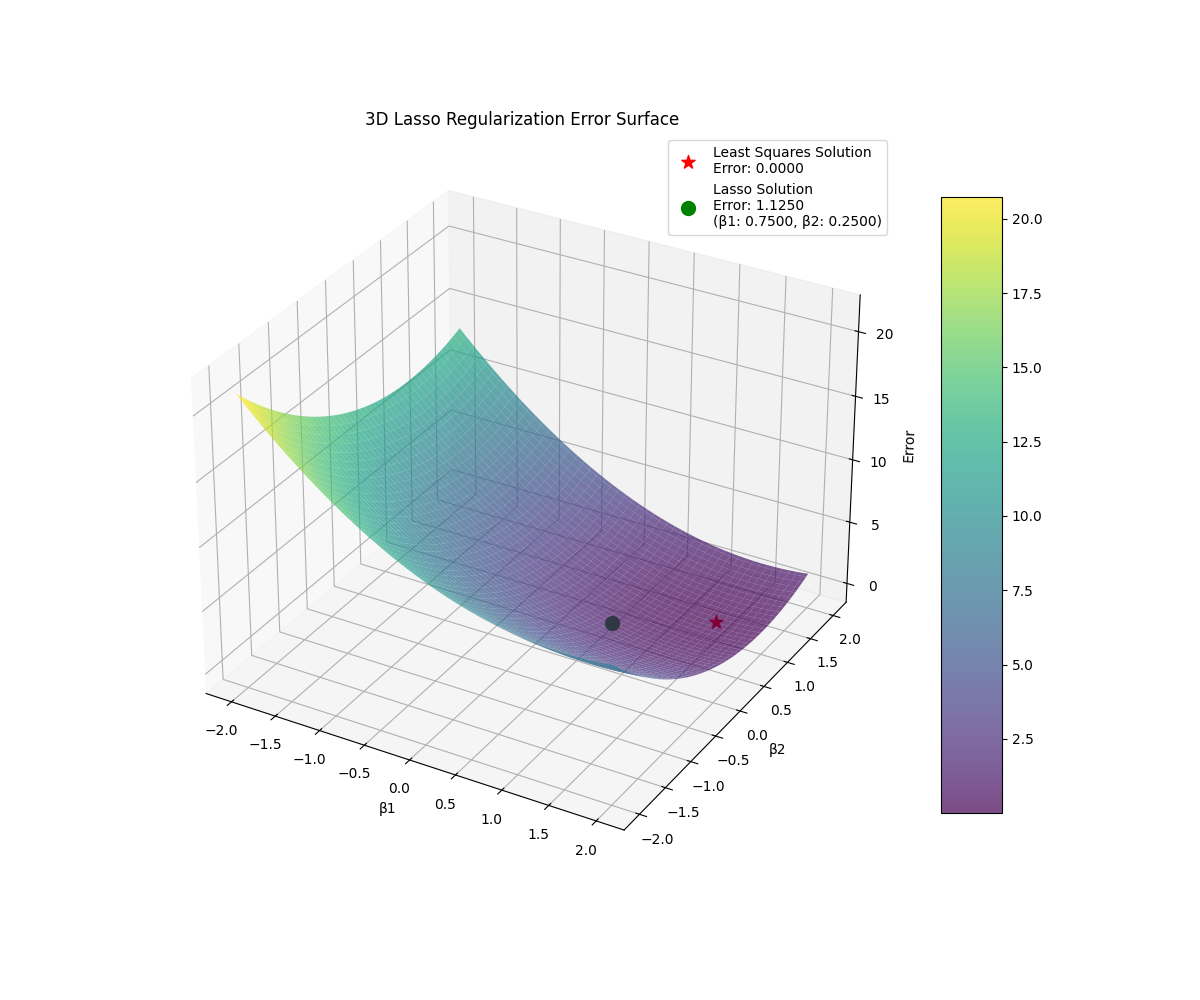
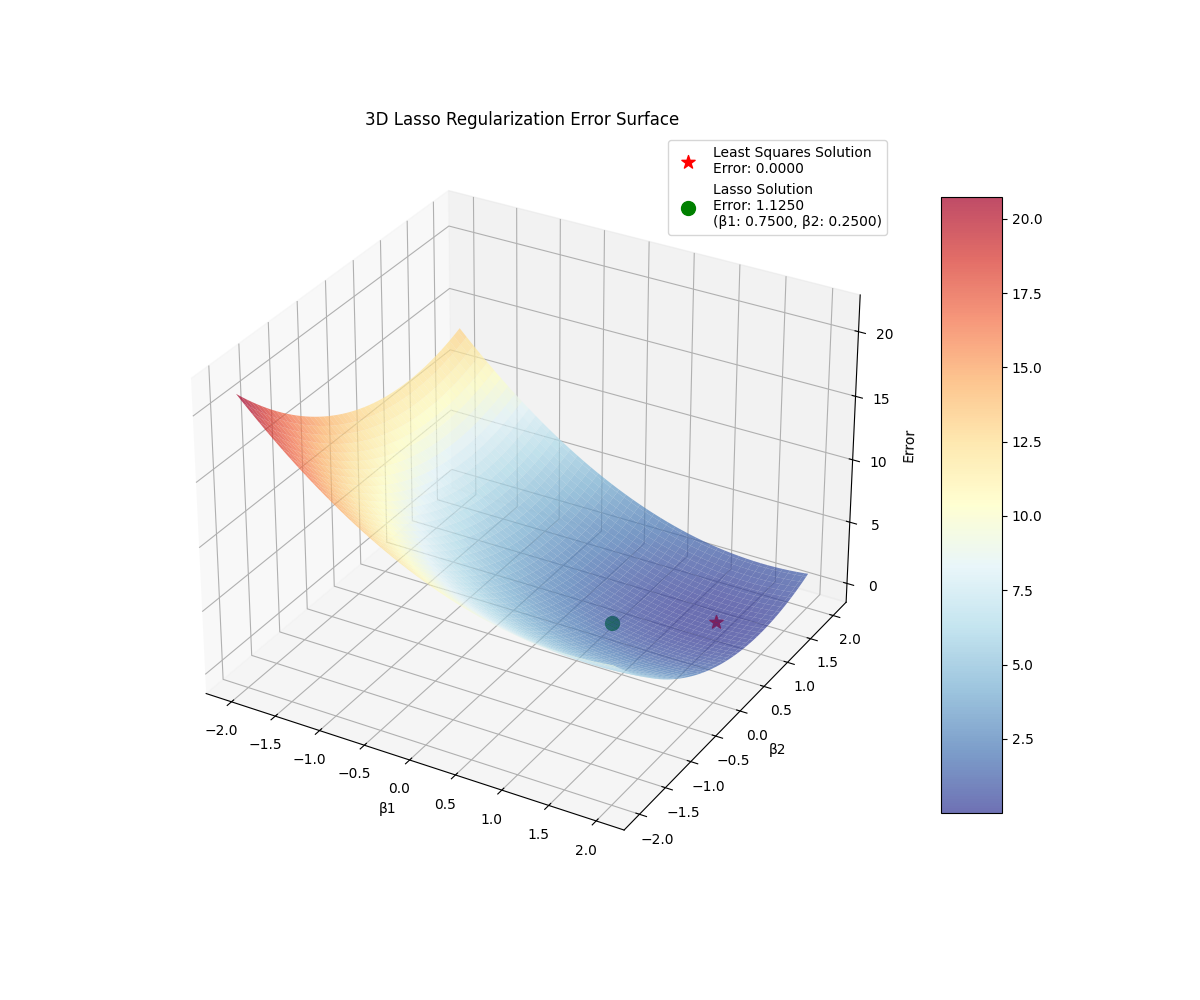
post_regularization_post

Changed region(s): [[0.185, 0.31, 0.6783, 0.682], [0.7708, 0.186, 0.8325, 0.837]]

diff --git a/intro_regularization/contour_plots_custom.py b/intro_regularization/contour_plots_custom.py
@@ -1,0 +1,250 @@
+import numpy as np
+import matplotlib.pyplot as plt
+from scipy.optimize import minimize
+import os
+import matplotlib
+from mpl_toolkits.mplot3d import Axes3D
+
+matplotlib.use('TkAgg')
+
+# Ensure output directory exists
+output_dir = 'regularization_plots'
+os.makedirs(output_dir, exist_ok=True)
+
+cmap="RdYlBu_r"
+
+def create_error_grid(beta_hat):
+    """Create a grid for error calculations."""
+    x = np.linspace(-2, 2, 100)
+    y = np.linspace(-2, 2, 100)
+    X, Y = np.meshgrid(x, y)
+
+    def least_squares_error(x, y):
+        return (x - beta_hat[0]) ** 2 + (y - beta_hat[1]) ** 2
+
+    Z = least_squares_error(X, Y)
+    return X, Y, Z
+
+
+def plot_ridge_regularization(beta_hat):
+    plt.figure(figsize=(10, 8))
+    X, Y, Z = create_error_grid(beta_hat)
+
+    plt.contourf(X, Y, Z, levels=20, cmap=cmap, alpha=0.7)
+    plt.colorbar(label='Error')
+
+    # Draw L2 constraint (circle)
+    theta = np.linspace(0, 2 * np.pi, 100)
+    radius = 1
+    plt.plot(radius * np.cos(theta), radius * np.sin(theta), 'r-', linewidth=2)
+
+    # Compute error values
+    def least_squares_error(x, y):
+        return (x - beta_hat[0]) ** 2 + (y - beta_hat[1]) ** 2
+
+    # Original least squares point (red)
+    ls_error = least_squares_error(beta_hat[0], beta_hat[1])
+    plt.plot(beta_hat[0], beta_hat[1], 'r*', markersize=15)
+    plt.annotate(f'Least Squares Solution\nError: {ls_error:.4f}',
+                 (beta_hat[0], beta_hat[1]),
+                 xytext=(10, 10),
+                 textcoords='offset points',
+                 color='red')
+
+    # Ridge solution (exactly on the border)
+    def ridge_objective(beta):
+        return np.sum((beta - beta_hat) ** 2)
+
+    def ridge_constraint(beta):
+        return radius ** 2 - np.sum(beta ** 2)
+
+    ridge_solution = minimize(
+        ridge_objective,
+        beta_hat,
+        constraints={'type': 'ineq', 'fun': ridge_constraint}
+    ).x
+
+    # Compute error for ridge solution
+    ridge_error = least_squares_error(ridge_solution[0], ridge_solution[1])
+
+    plt.plot(ridge_solution[0], ridge_solution[1], 'go', markersize=10)
+    plt.annotate(
+        f'Ridge-Regularized Solution\nError: {ridge_error:.4f}\n(β1: {ridge_solution[0]:.4f}, β2: {ridge_solution[1]:.4f})',
+        (ridge_solution[0], ridge_solution[1]),
+        xytext=(10, 10),
+        textcoords='offset points',
+        color='green')
+
+    plt.title('Ridge Regularization (L2 Constraint)')
+    plt.xlabel('β1')
+    plt.ylabel('β2')
+    plt.axhline(y=0, color='k', linewidth=0.5)
+    plt.axvline(x=0, color='k', linewidth=0.5)
+    plt.grid(True, linestyle='--', linewidth=0.5)
+
+    plt.savefig(os.path.join(output_dir, 'ridge_regularization.png'))
+    plt.close()
+
+
+def plot_lasso_regularization(beta_hat):
+    plt.figure(figsize=(10, 8))
+    X, Y, Z = create_error_grid(beta_hat)
+
+    plt.contourf(X, Y, Z, levels=20, cmap=cmap, alpha=0.7)
+    plt.colorbar(label='Error')
+
+    # Draw L1 constraint (diamond)
+    diamond_x = [0, 1, 0, -1, 0]
+    diamond_y = [1, 0, -1, 0, 1]
+    plt.plot(diamond_x, diamond_y, 'r-', linewidth=2)
+
+    # Compute error values
+    def least_squares_error(x, y):
+        return (x - beta_hat[0]) ** 2 + (y - beta_hat[1]) ** 2
+
+    # Original least squares point (red)
+    ls_error = least_squares_error(beta_hat[0], beta_hat[1])
+    plt.plot(beta_hat[0], beta_hat[1], 'r*', markersize=15)
+    plt.annotate(f'Least Squares Solution\nError: {ls_error:.4f}',
+                 (beta_hat[0], beta_hat[1]),
+                 xytext=(10, 10),
+                 textcoords='offset points',
+                 color='red')
+
+    # Lasso solution (exactly on the border)
+    def lasso_objective(beta):
+        return np.sum((beta - beta_hat) ** 2)
+
+    def lasso_constraint(beta):
+        return 1 - np.sum(np.abs(beta))
+
+    lasso_solution = minimize(
+        lasso_objective,
+        beta_hat,
+        constraints={'type': 'ineq', 'fun': lasso_constraint}
+    ).x
+
+    # Compute error for lasso solution
+    lasso_error = least_squares_error(lasso_solution[0], lasso_solution[1])
+
+    plt.plot(lasso_solution[0], lasso_solution[1], 'go', markersize=10)
+    plt.annotate(
+        f'Lasso-Regularized Solution\nError: {lasso_error:.4f}\n(β1: {lasso_solution[0]:.4f}, β2: {lasso_solution[1]:.4f})',
+        (lasso_solution[0], lasso_solution[1]),
+        xytext=(10, 10),
+        textcoords='offset points',
+        color='green')
+
+    plt.title('Lasso Regularization (L1 Constraint)')
+    plt.xlabel('β1')
+    plt.ylabel('β2')
+    plt.axhline(y=0, color='k', linewidth=0.5)
+    plt.axvline(x=0, color='k', linewidth=0.5)
+    plt.grid(True, linestyle='--', linewidth=0.5)
+
+    plt.savefig(os.path.join(output_dir, 'lasso_regularization.png'))
+    plt.close()
+
+
+def plot_ridge_3d_error_surface(beta_hat):
+    plt.figure(figsize=(12, 10))
+    X, Y, Z = create_error_grid(beta_hat)
+
+    ax = plt.axes(projection='3d')
+    surf = ax.plot_surface(X, Y, Z, cmap=cmap, alpha=0.7)
+    plt.colorbar(surf, shrink=0.8, aspect=10)
+
+    def least_squares_error(x, y):
+        return (x - beta_hat[0]) ** 2 + (y - beta_hat[1]) ** 2
+
+    def ridge_objective(beta):
+        return np.sum((beta - beta_hat) ** 2)
+
+    def ridge_constraint(beta):
+        return 1 - np.sum(beta ** 2)
+
+    # Original least squares point
+    ls_error = least_squares_error(beta_hat[0], beta_hat[1])
+    ax.scatter(beta_hat[0], beta_hat[1], ls_error,
+               color='red', s=100, marker='*',
+               label=f'Least Squares Solution\nError: {ls_error:.4f}')
+
+    ridge_solution = minimize(
+        ridge_objective,
+        beta_hat,
+        constraints={'type': 'ineq', 'fun': ridge_constraint}
+    ).x
+
+    # Ridge solution point
+    ridge_error = least_squares_error(ridge_solution[0], ridge_solution[1])
+    ax.scatter(ridge_solution[0], ridge_solution[1], ridge_error,
+               color='green', s=100,
+               label=f'Ridge Solution\nError: {ridge_error:.4f}\n(β1: {ridge_solution[0]:.4f}, β2: {ridge_solution[1]:.4f})')
+
+    ax.set_title('3D Ridge Regularization Error Surface')
+    ax.set_xlabel('β1')
+    ax.set_ylabel('β2')
+    ax.set_zlabel('Error')
+    ax.legend()
+
+    plt.savefig(os.path.join(output_dir, 'ridge_3d_error_surface.png'))
+    plt.close()
+
+
+def plot_lasso_3d_error_surface(beta_hat):
+    plt.figure(figsize=(12, 10))
+    X, Y, Z = create_error_grid(beta_hat)
+
+    ax = plt.axes(projection='3d')
+    surf = ax.plot_surface(X, Y, Z, cmap=cmap, alpha=0.7)
+    plt.colorbar(surf, shrink=0.8, aspect=10)
+
+    def least_squares_error(x, y):
+        return (x - beta_hat[0]) ** 2 + (y - beta_hat[1]) ** 2
+
+    def lasso_objective(beta):
+        return np.sum((beta - beta_hat) ** 2)
+
+    def lasso_constraint(beta):
+        return 1 - np.sum(np.abs(beta))
+
+    # Original least squares point
+    ls_error = least_squares_error(beta_hat[0], beta_hat[1])
+    ax.scatter(beta_hat[0], beta_hat[1], ls_error,
+               color='red', s=100, marker='*',
+               label=f'Least Squares Solution\nError: {ls_error:.4f}')
+
+    lasso_solution = minimize(
+        lasso_objective,
+        beta_hat,
+        constraints={'type': 'ineq', 'fun': lasso_constraint}
+    ).x
+
+    # Lasso solution point
+    lasso_error = least_squares_error(lasso_solution[0], lasso_solution[1])
+    ax.scatter(lasso_solution[0], lasso_solution[1], lasso_error,
+               color='green', s=100,
+               label=f'Lasso Solution\nError: {lasso_error:.4f}\n(β1: {lasso_solution[0]:.4f}, β2: {lasso_solution[1]:.4f})')
+
+    ax.set_title('3D Lasso Regularization Error Surface')
+    ax.set_xlabel('β1')
+    ax.set_ylabel('β2')
+    ax.set_zlabel('Error')
+    ax.legend()
+
+    plt.savefig(os.path.join(output_dir, 'lasso_3d_error_surface.png'))
+    plt.close()
+
+
+# Other functions remain the same as in the previous script...
+
+# Define the shifted optimal point (least squares solution)
+beta_hat = np.array([1.5, 1.0])
+
+# Generate all plots
+plot_ridge_regularization(beta_hat)
+plot_lasso_regularization(beta_hat)
+plot_ridge_3d_error_surface(beta_hat)
+plot_lasso_3d_error_surface(beta_hat)
+
+print(f"Plots have been saved in the '{output_dir}' directory.")
